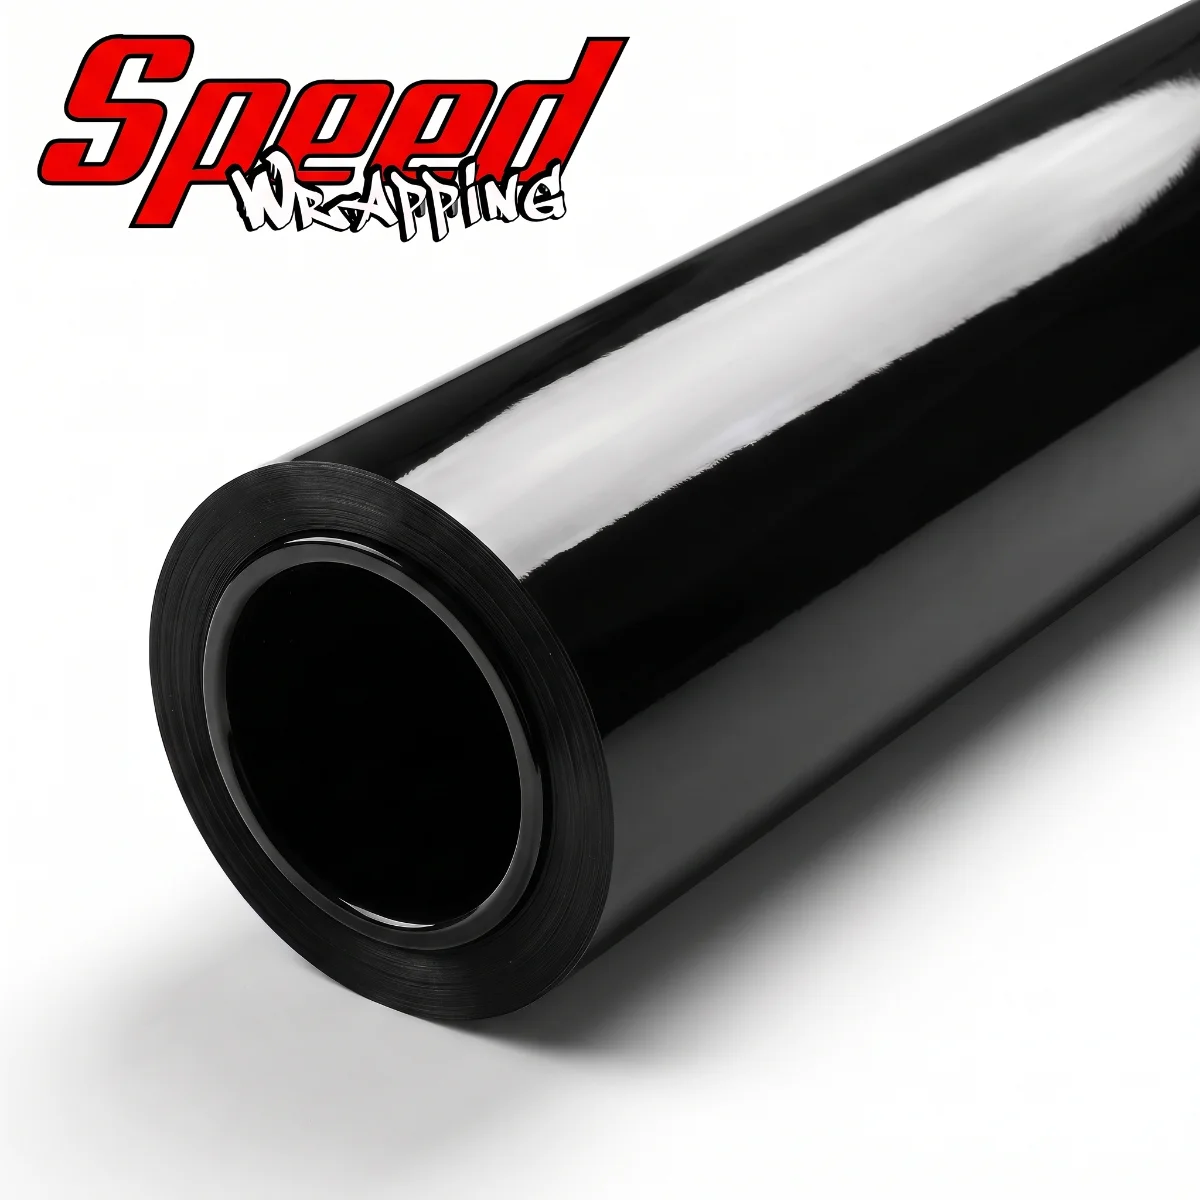
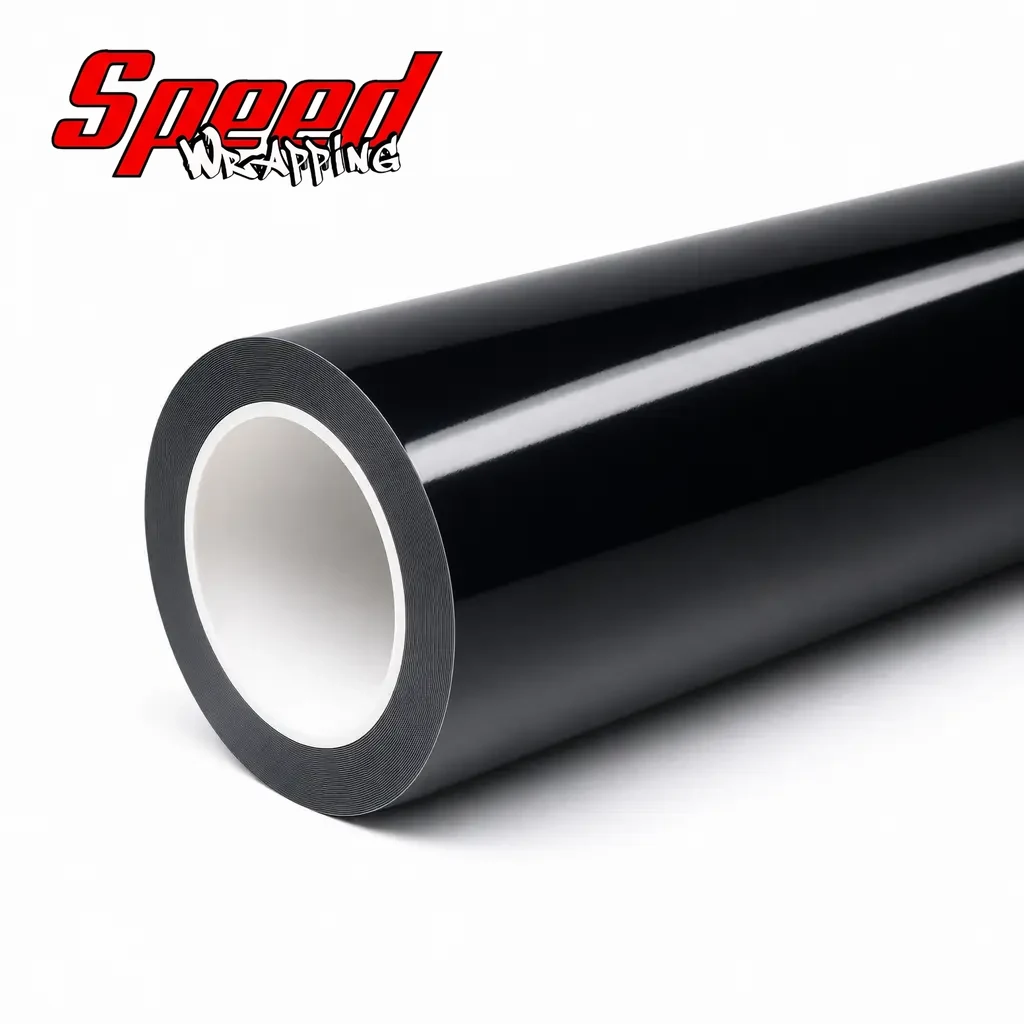
feat(esg-001): BMW M8 Gran Coupe + capa super gloss com referencia ESG-034/033 (#0A0A0C) Piano Black

diff --git a/docs/STATUS_CORES_SPEED.md b/docs/STATUS_CORES_SPEED.md
@@ -48,6 +48,10 @@ pasta · `✅ ` = fotos e capa 100% no site. Ex.: `✅ EDG-020 LIQUID METAL RUBY
 | ESG-016 | SUPER GLOSS SUNFLOWER YELLOW PET | ✅ 01/10 | 🔁 01/10 — **releitura** (João reprovou o tom com foto do cartão na frente da ESG-017): face plana H 39,7 · S 99 · V 89 → **`#E39702`** (âmbar/manga); a 1ª leitura `#F2A705` pegou o reflexo e saiu limão | ✅ 01/10 — B aprovado (`7d4df5e3`), depois refeito | 🔁 01/10 — refeitas do zero com prompt âmbar (frontal `9b244d73`, traseira `5a21a2de`, perfil `c6443c48`, macro `7129a767`, capa `46c2d9be`), H 36–38; sem correção — **aprovadas pelo João em 01/10** | ✅ 01/10 — 1ª versão `a232b57` (limão), **substituída em 01/10** pela versão âmbar (mesmos nomes de arquivo, conferida no ar por md5); pasta ✅ |
 | ESG-025 | SUPER GLOSS LAVENDER PET | ✅ 01/10 | ✅ 01/10 — à mão: H 250–257 · S 38–41 · V 89–92 → **`#A996EA`** (lilás pastel; swatch) | ✅ 01/10 — **B** aprovado (`afb651df`; eu tinha recomendado A) | ✅ 01/10 — aprovadas, corrigidas contra `#A996EA` (violeta, val_max 0,95) | ✅ 01/10 — commit `9fe9043` (deploy demorou; banco na 2ª rodada), 5 mídias, conferidas no ar; pasta ✅ |
 | EMA-007 | MATT ARMY GREEN | ✅ 01/10 | ✅ 01/10 — à mão (balanço de branco pelo asfalto): H 104–108 · S 25–32 · V 43–48 → **`#5A7351`**; **fosco** (1ª EMA) | ✅ 01/10 — **B** aprovado (`1497a65c`, corrigido) | ✅ 01/10 — aprovadas, corrigidas com a família nova `militar` + sat_min 0,06 | ✅ 01/10 — commit `c721c12`, 5 mídias conferidas no ar. Página escondida até a linha EMA ser ativada; **ativada no NZERP em 01/10 a pedido do João** e conferida na loja (`/loja/speed-wrapping-ema-007-matt-army-green-spwema007`). Pasta ✅ |
+| ESG-001 | SUPER GLOSS PIANO BLACK PET | ✅ 01/10 | ✅ 01/10 — à mão: V 4–5 na face sem reflexo → **`#0A0A0C`** (preto neutro) | ✅ 01/10 — **B** aprovado (`a62ddc18`; lataria V 3–5 entre os reflexos) | ✅ 01/10 — aprovadas, sem correção (neutro) | ✅ 01/10 — publicada (lote 7) |
+| ESG-027 | SUPER GLOSS NARDO GREY PET | ✅ 01/10 | ✅ 01/10 — à mão (2 fotos limpas): V 47 · S 2–8 → **`#747577`** (cinza neutro; o balanço pelo asfalto quente puxava para roxo) | ✅ 01/10 — **A** aprovado (`b0bcc800`; porta V 38 / paralama V 57) | ✅ 01/10 — aprovadas; perfil refeito (o 1º tinha aerofólio e saiu azulado); sem correção | ✅ 01/10 — publicada (lote 7) |
+| EMA-008 | MATT TIFFANY | ✅ 01/10 | ✅ 01/10 — à mão: H 170–171 · S 49–69 (veu do céu no fosco) → **`#48D8C2`** pela foto de luz mais limpa | ✅ 01/10 — **B** aprovado (`0f1557f8`; H 171 S 60 V 83) | ✅ 01/10 — aprovadas, **corrigidas** com `verde` (fotos H 173→171, capa H 177→171) | ✅ 01/10 — publicada (lote 7) |
+| EMA-015 | MATT RED | ✅ 01/10 | ✅ 01/10 — à mão: H 355–357 · S 81–90 · V 76–93 → **`#DD1C2A`** | ✅ 01/10 — **A** aprovado (`14352136`; H 354 S 82 V 89) | ✅ 01/10 — aprovadas, sem correção (a família `vermelho` pegaria as lanternas) | ✅ 01/10 — publicada (lote 7) |
 
 **Cadastradas no NZERP em 01/10** (eram as "fora do NZERP" com amostra no Drive): nome lido no rótulo do
 cartão; fiscal, custo, preço da Engenharia e medidas copiados do irmão de linha; criadas no Tiny pela
@@ -71,8 +75,8 @@ sync. Prontas para foto:
 
 Os funcionários subiram 43 cores novas (pastas marcadas 🟢 em 01/10). Todas existem no NZERP e no site, só com a capa antiga (1 mídia, nenhuma foto de carro):
 
-- **ESG (super gloss), 28:** ESG-001 a ESG-029, menos a ESG-004 (no ar em 01/10); ESG-011, 016 e 025 no ar em 01/10.
-- **EMA (matt), 13:** EMA-003 a EMA-015 e EMA-017, menos a EMA-007. **Linha EMA ativada no NZERP em 01/10** (`master_catalog.active = true` nas 17, com `audit_logs` `ATIVAR_PRODUTO`; no Tiny já estavam ativas; preço mantido em R$ 2.800 o rolo / R$ 76 o metro). As 16 sem foto de carro aparecem na loja com a capa antiga até serem fotografadas.
+- **ESG (super gloss), 23 a fazer:** ESG-001 a ESG-029, menos as que já estão no ar (ESG-001, 004, 011, 016, 025 e 027, todas em 01/10).
+- **EMA (matt), 11 a fazer:** EMA-003 a EMA-015 e EMA-017, menos as que já estão no ar (EMA-007, 008 e 015, em 01/10). **Linha EMA ativada no NZERP em 01/10** (`master_catalog.active = true` nas 17, com `audit_logs` `ATIVAR_PRODUTO`; no Tiny já estavam ativas; preço mantido em R$ 2.800 o rolo / R$ 76 o metro). As 16 sem foto de carro aparecem na loja com a capa antiga até serem fotografadas.
   - Armadilha: o gatilho `site_notificar_sync` do NZERP tem *debounce* de 15 s — uma alteração feita logo depois de outro aviso não dispara o sync do site. Se a loja não refletir, rode `select public.site_notificar_sync();` depois de 15 s.
 - ESG-041 ganhou 2 fotos de amostra (já publicada em set/2026; tom ainda a confirmar com o João).
 
@@ -83,6 +87,7 @@ neutra — ajustar antes de ler.
 
 ## Concluídas (fotos de carro + capa nova no ar)
 
+ESG-001 Super Gloss Piano Black (BMW M8 Gran Coupé), ESG-027 Super Gloss Nardo Grey (Audi R8 V10), EMA-008 Matt Tiffany (BMW M2 — corrigida com `verde`) e EMA-015 Matt Red (Ford Mustang Dark Horse) — 01/10, 7º lote, o primeiro com rascunho revisado contra as regras de cenário do manual antes do piloto (zero piloto refeito).
 ESG-011 Super Gloss Miami Blue (Porsche 911 GT3 Touring), ESG-016 Super Gloss Sunflower Yellow (Corvette C8), ESG-025 Super Gloss Lavender (Mercedes-AMG SL 63) e EMA-007 Matt Army Green (Mercedes-AMG G 63 — página liberada em 01/10 com a ativação da linha EMA) — 01/10, 5º lote. EGF-018 refeita no acabamento fosco (`38bb6c7`).
 EGF-006 Gloss Forged Carbon Silver (closes do Mercedes-AMG GT, nome corrigido no Tiny/site), EGF-017 Shadow Black (closes do M4 — camuflagem, não forjado), EGF-018 Forged Carbon (closes do 720S) e ESG-004 Super Gloss Ferrari Red (Ferrari F8 Tributo) — 01/10, 4º lote. Fechadas todas as EDG/EMT/EMG/EGF com amostra.
 EDG-026 Metallic Paint Metallic Sonoma Green (Lamborghini Urus — família nova `musgo`), EMG-022 Satin Metallic Glossy Prunus Sakura Pink (Maserati GranTurismo), EGF-010 Gloss Forged Carbon Gold (closes da Ferrari 296 GTB) e EGF-013 Matte Forged Carbon Purple (closes do 911 GT3) — 01/10, 3º lote de 4.

diff --git a/docs/FOTOS_DE_COR_AUTOMOTIVA.md b/docs/FOTOS_DE_COR_AUTOMOTIVA.md
@@ -131,6 +131,10 @@ confiável:
 | ESG-016 Super Gloss Sunflower Yellow | face plana H 39,7 · S 99 · V 89 → **`#E39702`** (âmbar/manga; a 1ª leitura `#F2A705` pegou o reflexo) | — | refeita em 01/10 com prompt "deep amber / marigold / mango, NOT canary"; sem correção (a família `dourado` tinge o cenário) |
 | ESG-025 Super Gloss Lavender | H 250–257 · S 38–41 · V 89–92 → `#A996EA` (swatch) | — | asfalto neutro; corrigida com `violeta` + `val_max` 0,95 |
 | EMA-007 Matt Army Green | H 104–108 · S 25–32 · V 43–48 (balanço de branco) → `#5A7351` | — | primeira EMA (fosco); gerador entrega oliva acinzentado H ~84 |
+| ESG-001 Super Gloss Piano Black | V 4–5 na face sem reflexo → `#0A0A0C` | — | preto neutro: matiz sem sentido nesse valor; medir só entre os reflexos |
+| ESG-027 Super Gloss Nardo Grey | V 47 · S 2–8 (2 fotos limpas) → `#747577` | — | o balanço pelo asfalto quente puxou para roxo: fechar neutro conferindo a pastilha ao lado do cartão |
+| EMA-008 Matt Tiffany | H 170–171 · S 49–69 → `#48D8C2` | — | fosco segurado contra o céu ganha véu branco (S cai ~20): usar a foto de luz mais limpa |
+| EMA-015 Matt Red | H 355–357 · S 81–90 · V 76–93 → `#DD1C2A` | — | sem correção |
 | EDG-021 / EMT-025 (azuis, 30/09) | — | 41 / 26 | **não confiável**: reflexo do céu no cartão segurado na mão — refotografar deitado, na sombra |
 | **ESG-030 Gem Red** | H333 S68 V76 | **7,7** | **não confiável** |
 
@@ -595,6 +599,22 @@ contra o sol os estilhaços refletem forte e parecem verniz. Regra: em carbono, 
 o recorte de textura tem que mostrar a base fosca (EGF-018 v2: `3f26a272`). Na dúvida, perguntar
 ao João o acabamento antes do piloto.
 
+### Rascunho conferido contra as regras antes do piloto (lote 7, 01/10)
+
+O primeiro rascunho do lote 7 tinha quatro erros que o João pegou ao perguntar se estava bom; todos
+estavam escritos neste manual: Nardo Grey (S ~2) num pasto verde (cor de baixa saturação pede cenário
+neutro — o pasto refletiria no cinza e não daria para corrigir), Matt Red com nublado (cor saturada
+pede céu aberto) num fiorde (casas vermelhas; e negar a cor no cenário atrai a cor), "Tiffany" no
+prompt (o gerador conhece o azul Tiffany, S ~41, contra S ~65 do cartão) e preto sem rodas claras nem
+nublado direcional. Revisado, o lote saiu sem nenhum piloto refeito. Regra: **antes de mandar o
+rascunho, passar cada cor pela seção "Luz e cenário, por tipo de cor"**, conferir se o nome
+comercial da cor puxa o gerador para outro tom e fixar as rodas no prompt.
+
+Outros dois achados do lote: (1) o carro pode ganhar peça que o piloto não tem — o perfil do R8 veio
+com aerofólio alto; escreva "NO rear wing" quando o piloto não tiver; (2) correção de fosco com
+`manterValor` desligado deixa o carro chapado (perde a sombra); nas fotos ela roda sempre com o valor
+mantido, e só a capa usa o modo sem valor.
+
 ### Amarelo-âmbar lido como limão (ESG-016, 01/10)
 
 A ESG-016 Sunflower Yellow foi publicada amarelo-canário (H 42–45 · V 96–98) e o João reprovou com
@@ -803,6 +823,10 @@ marca d'água, sem adesivo de patrocínio.
 | ESG-016 Super Gloss Sunflower Yellow | Chevrolet Corvette C8 (rodas grafite) | estrada de montanha nas Dolomitas |
 | ESG-025 Super Gloss Lavender | Mercedes-AMG SL 63 (capota preta, pinça cobre) | estrada de ciprestes na Toscana, campos dourados |
 | EMA-007 Matt Army Green | Mercedes-AMG G 63 (rodas pretas foscas) | pista de aeródromo de concreto, hangar e torre |
+| ESG-001 Super Gloss Piano Black | BMW M8 Competition Gran Coupé (rodas bicolores prata/preto, pinça azul) | praça diante de prédio branco curvo (estilo Heydar Aliyev), piso cinza frio |
+| ESG-027 Super Gloss Nardo Grey | Audi R8 V10 performance (rodas pretas em Y, **sem aerofólio**) | lajedo de calcário do Burren (Irlanda), sem vegetação, nublado branco |
+| EMA-008 Matt Tiffany | BMW M2 G87 (rodas pretas forjadas) | ruela de kasbah em Aït Benhaddou, muros de taipa ocre, pouco céu |
+| EMA-015 Matt Red | Ford Mustang Dark Horse (rodas pretas foscas) | Atlantic Ocean Road (Noruega), ponte curva, rocha cinza, mar azul, sem construção |
 
 Quando o fabricante já escolheu um carro na brochure, é uma boa escolha — foi o
 caso do Golf na Capri Bronze e do M4 na Bavarian Blue. E quando a cor reproduz

diff --git a/docs/CAPAS_SPEED_WRAPPING.md b/docs/CAPAS_SPEED_WRAPPING.md
@@ -328,6 +328,10 @@ conferir sempre pelo arquivo no ar antes de mexer em qualquer coisa.
 | ESG-016 Super Gloss Sunflower Yellow | `#E39702` · H 40 · S 99 · V 89 (refeita 01/10; antes `#F2A705`, saiu limão) | super gloss sólido | idem; capa `46c2d9be` (H 38 · S 98 · V 92); sem correção |
 | ESG-025 Super Gloss Lavender | `#A996EA` · H 253 · S 36 · V 92 | super gloss sólido | idem; capa 2 → `--corrigir` fecha em H 253,6 · S 36,1 · V 91,8 (família `violeta`, `val_max` 0,95) |
 | EMA-007 Matt Army Green | `#5A7351` · H 105 · S 29 · V 45 | **matt** (fosco) | **primeira capa fosca lisa**: só ESG-034 (geometria) + "TRUE MATTE… NO specular band"; capa 2 → fecha em H 104,2 · S 29,6 · V 45,1 (família nova `militar`) |
+| ESG-001 Super Gloss Piano Black | `#0A0A0C` · preto neutro · V 4 | super gloss sólido | ESG-034 + ESG-033 + "the film itself is inky black everywhere; the only light areas are the white specular band…"; capa 1 (`262744ed`, a mais escura); sem correção |
+| ESG-027 Super Gloss Nardo Grey | `#747577` · neutro · V 47 | super gloss sólido | ESG-034 + ESG-033 + "NO metallic flake — it is not silver"; capa 1 (`59574f59`) → `#75777C` V 49; sem correção |
+| EMA-008 Matt Tiffany | `#48D8C2` · H 171 · S 67 · V 85 | **matt** (fosco) | só ESG-034 + TRUE MATTE; capa 1 (`b646ee22`) nasceu H 177 → `--corrigir` com `verde` fecha H 171 · S 67 · V 84 |
+| EMA-015 Matt Red | `#DD1C2A` · H 356 · S 87 · V 87 | **matt** (fosco) | só ESG-034 + TRUE MATTE; capa 1 (`0a08fafe`) H 358 · S 80 · V 82; sem correção |
 
 **A ESG-034 é a referência de geometria da linha** (job `a811cd95…`), e a
 **ESG-033 é a referência de acabamento** (job `d1170724…`). Passar as duas como
